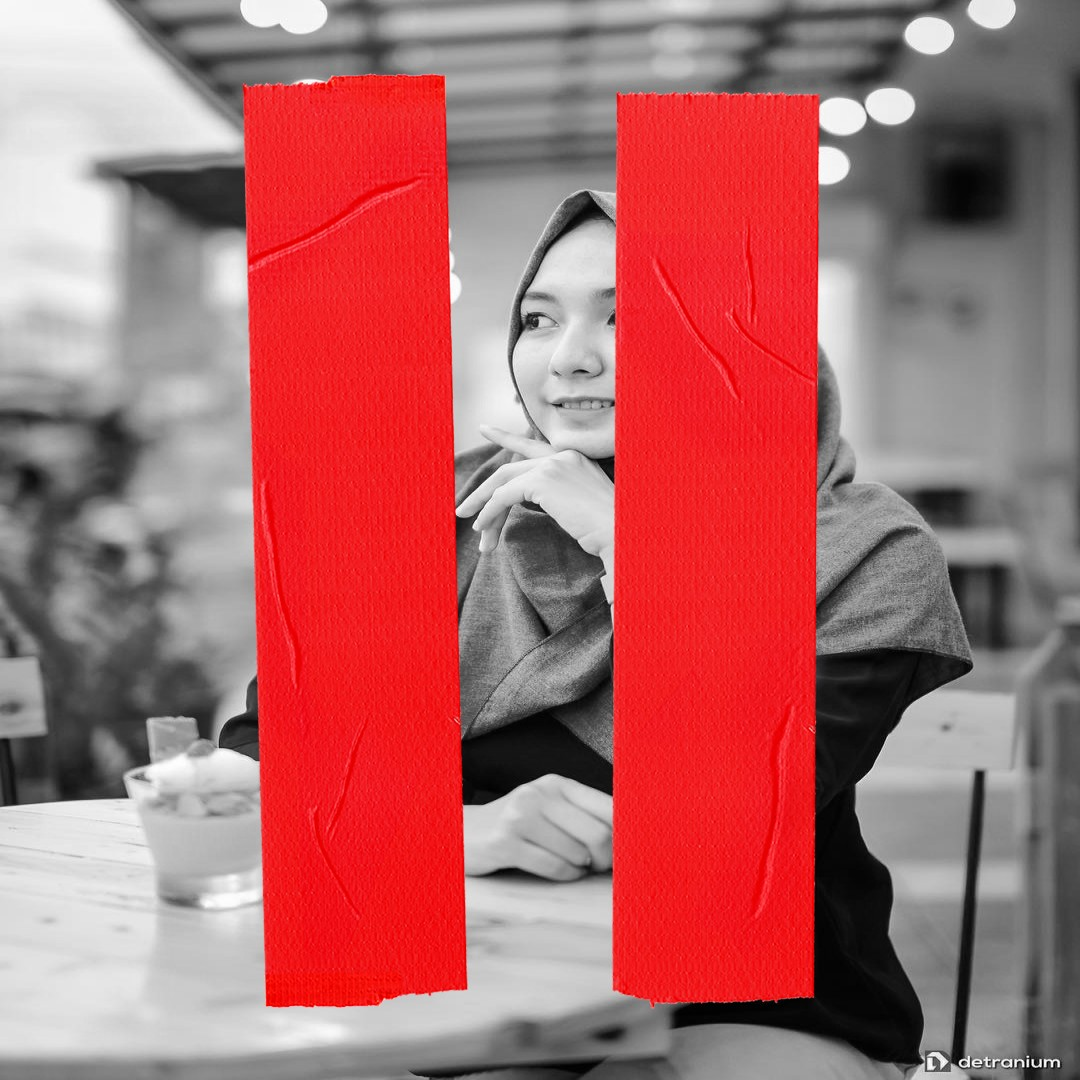
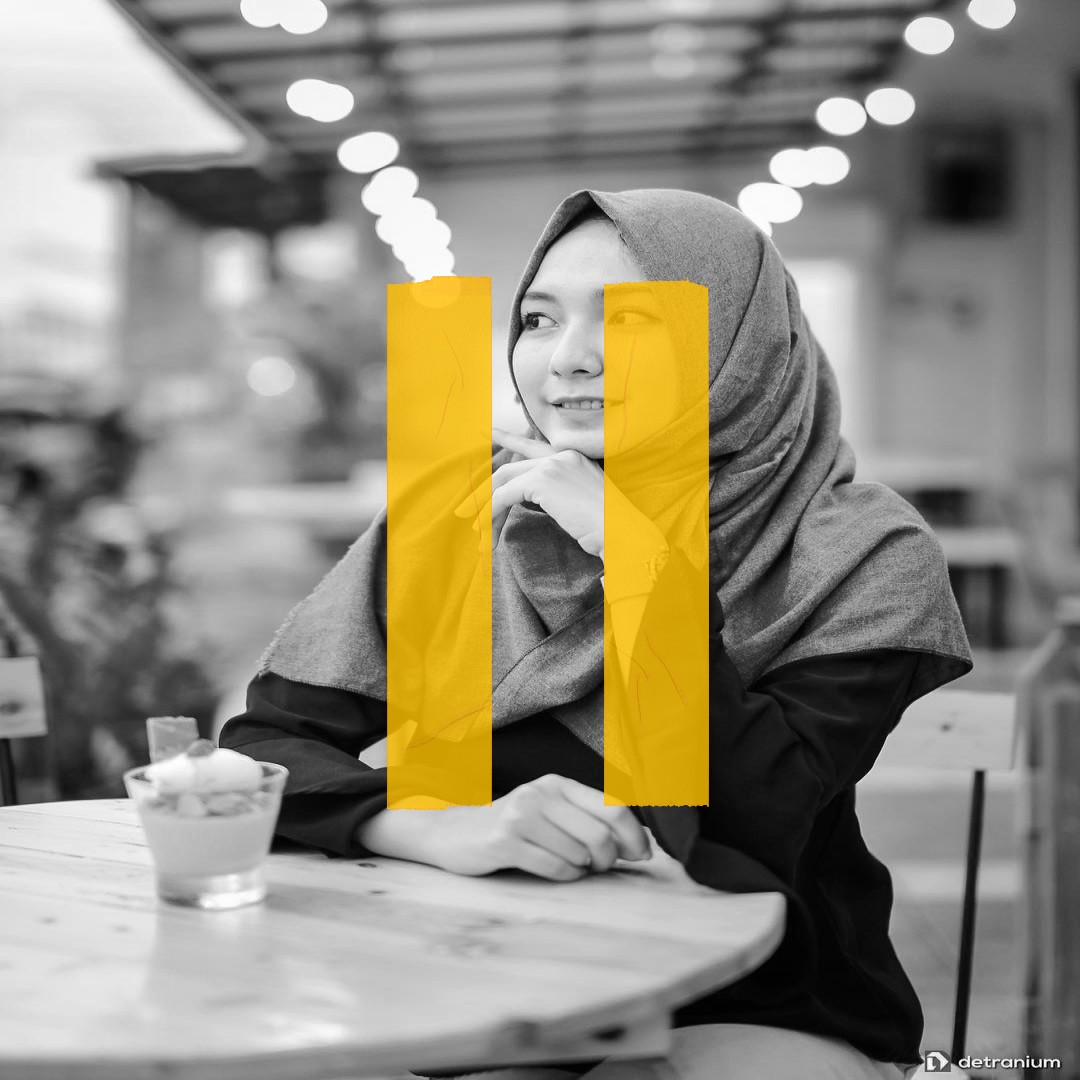
update data nif dan image profil nif

diff --git a/public/frontend/css/custom.css b/public/frontend/css/custom.css
@@ -36,3 +36,13 @@
 	margin-top: 6px;
     margin-left: 56px;
 }
+.no-border{
+	border: 0;
+	color: black;
+    padding: 0px;
+    height: inherit;
+    box-shadow: none;
+}
+.no-border[readonly]{
+	background: none;
+}

diff --git a/resources/views/frontend-page/nif.blade.php b/resources/views/frontend-page/nif.blade.php
@@ -9,7 +9,11 @@
         <div class="row">
             <div class="col-md-3">
                 <div class="thumbnail thumbnail-photo thumbnail-nif">
-                    <img src="{!!Storage::disk('s3')->url(Auth::guard('account')->user()->images)!!}" alt="">
+                    <img id='nif-image' class='pointer' src="{!!Storage::disk('s3')->url(Auth::guard('account')->user()->images)!!}" alt="">
+                    <form action="{{Route('member.change.image')}}" enctype="multipart/form-data" id='form-image' method="post">
+                        @csrf
+                        <input type="file" name="image" id="image_nif" style="display: none;" />
+                    </form>
                 </div>
                 <div class="pull-left">
                     <a href="{{ route('images.download') }}" class="btn"><i class="fa fa-download"></i></a>
@@ -21,38 +25,50 @@
                 </div> -->
             </div>
             <div class="col-md-5 mrgn">
+                <form action="{{ route('member.change.nif') }}" method="post" id="change-password">
+                    @csrf
                 <div class="form-group row detail grs">
-                    <label for="#" class="col-sm-4 col-form-label">@lang('nif.columns.name')</label>
-                    <div class="col-sm-8">
-                        <p class="isian">: {{ Auth::guard('account')->user()->name }}</p>
+                    <label for="#" class="col-sm-5 col-form-label">@lang('nif.columns.name') <trobe class="pull-right">:</trobe></label>
+                    <div class="col-sm-7">
+                         <input type="text" name="name" class="form-control isian no-border"  value="{{ Auth::guard('account')->user()->name }}">
                     </div>
-                    <label for="#" class="col-sm-4 col-form-label">@lang('nif.columns.nif')</label>
-                    <div class="col-sm-8">
-                        <p class="isian">: {!! sprintf("%06d", Auth::guard('account')->user()->id)!!}</p>
+                    <label for="#" class="col-sm-5 col-form-label">@lang('nif.columns.nif') <trobe class="pull-right">:</trobe></label>
+                    <div class="col-sm-7">
+                        <p class="isian">{!! sprintf("%06d", Auth::guard('account')->user()->id)!!}</p>
                     </div>
-                    <label for="#" class="col-sm-4 col-form-label">@lang('nif.columns.email')</label>
-                    <div class="col-sm-8">
-                        <p class="isian">: {{ Auth::guard('account')->user()->email }}</p>
+                    <label for="#" class="col-sm-5 col-form-label">@lang('nif.columns.email') <trobe class="pull-right">:</trobe></label>
+                    <div class="col-sm-7">
+                         <p class="isian">{{ Auth::guard('account')->user()->email }}</p>
                     </div>
-                    <label for="#" class="col-sm-4 col-form-label">@lang('nif.columns.phone')</label>
-                    <div class="col-sm-8">
-                        <p class="isian">: {{ Auth::guard('account')->user()->phone }}</p>
+                    <label for="#" class="col-sm-5 col-form-label">@lang('nif.columns.phone') <trobe class="pull-right">:</trobe></label>
+                    <div class="col-sm-7">
+                        <input type="text" name="phone" class="form-control isian no-border" value="{{ Auth::guard('account')->user()->phone }}">
                     </div>
-                    <label for="#" class="col-sm-4 col-form-label">@lang('nif.columns.address')</label>
-                    <div class="col-sm-8">
-                        <p class="isian">: {{ Auth::guard('account')->user()->address }}</p>
+                    <label for="#" class="col-sm-5 col-form-label">@lang('nif.columns.address') <trobe class="pull-right">:</trobe></label>
+                    <div class="col-sm-7">
+                        <textarea name="address" class="form-control isian no-border">{{ Auth::guard('account')->user()->address }}</textarea>
                     </div>
-                    <label for="#" class="col-sm-4 col-form-label">@lang('nif.columns.gender')</label>
-                    <div class="col-sm-8">
-                        <p class="isian">: {{ Auth::guard('account')->user()->gender }}</p>
+                    <label for="#" class="col-sm-5 col-form-label">@lang('nif.columns.gender') <trobe class="pull-right">:</trobe></label>
+                    <div class="col-sm-7">
+                        <select name="gender" class="form-control isian no-border">
+                            <option value="L" @if(Auth::guard('account')->user()->gender == "L") selected @endif >L</option>
+                            <option value="P" @if(Auth::guard('account')->user()->gender == "P") selected @endif >P</option>
+                            <option value="X" @if(Auth::guard('account')->user()->gender == "X") selected @endif >X</option>
+                        </select>
                     </div>
-                    <label for="#" class="col-sm-4 col-form-label">@lang('nif.columns.born_date')</label>
-                    <div class="col-sm-8">
-                        <p class="isian">: {{ Auth::guard('account')->user()->dob }}</p>
+                    <label for="#" class="col-sm-5 col-form-label">@lang('nif.columns.born_date') <trobe class="pull-right">:</trobe></label>
+                    <div class="col-sm-7">
+                        <input type="text" name="dob" class="form-control isian no-border" value="{{ Auth::guard('account')->user()->dob }}" readonly>
                     </div>
                 </div>
-
+                <div class="form-group col-sm-3">
+                        <button class="btn btn-danger btn-block btn-submit" type="submit">
+                            @lang('nif.edit.button')
+                        </button>
+                </div>
+                </form>
             </div>
+
             <div class="col-md-4 mrgn">
                 <section id="reset-pass">
                     @if(Session::has('success'))
@@ -105,7 +121,24 @@
         <p class="navbar-right">@lang('footer.left.detail')</p>
     </div>
 </div>
+<link rel="stylesheet" href="//code.jquery.com/ui/1.12.1/themes/base/jquery-ui.css">
+<script src="https://code.jquery.com/ui/1.12.1/jquery-ui.js"></script>
 <script>
+    $(function () {
+        $('input[name="dob"]').datepicker({
+          changeMonth: true,
+          changeYear: true,
+          dateFormat: 'dd/mm/yy'
+        });
+    });
+    $("#nif-image").click(function() {
+        $("input[id='image_nif']").click();
+    });
+    $("input[id='image_nif']").change(function() {
+      $('#form-image').submit()
+    });
+
+
     $("#change-password").validate({
         rules: {
             password: {

diff --git a/app/Http/Controllers/NifController.php b/app/Http/Controllers/NifController.php
@@ -3,15 +3,19 @@
 namespace App\Http\Controllers;
 
 use Auth;
+use Image;
 use Illuminate\Http\Request;
 use Illuminate\Support\Facades\Hash;
+use Illuminate\Support\Facades\Validator;
+use App\Account;
 
 class NifController extends Controller
 {
 
-    public function __construct()
+    public function __construct(Account $account)
     {
         $this->middleware('auth:account');
+        $this->account = $account;
     }
 
     public function index()
@@ -47,5 +51,38 @@ class NifController extends Controller
             $request->session()->flash('error', 'Password does not match');
         }
         return redirect()->route('member.nif');
+    }
+
+    public function changeImage(Request $request){
+        Validator::make($request->all(), [
+            'image' => 'required|mimes:jpeg,png',
+        ])->validate();
+        $file = $request->file('image');
+        $unique = uniqid();
+        $mask = array("red","yellow");
+        $destinationPath = 'uploads';
+        $filePath = $destinationPath.'/'.$unique.'-'.$file->getClientOriginalName();
+        $masking= array_rand($mask,1);
+        $fileimage = Image::make($file)->greyscale()->resize(1080, 1080)->insert('images/image-masking-'.$mask[$masking].'.png','center')->save($destinationPath.'/'.$file->getClientOriginalName());
+        $s3 = \Storage::disk('s3');
+        $s3->put($filePath, $fileimage,'public');
+        $request->request->add(['images' =>$filePath ]);
+
+        $this->account->where('id',Auth::user()->id)->update( $request->only('images') );
+
+        return redirect()->back();
+    }
+
+    public function changeData(Request $request){
+        Validator::make($request->all(), [
+            'name' => ['required', 'string', 'max:255'],
+            'phone'=>['required','numeric','phone_number'],
+            'address'=>['required'],
+            'gender'=>['required'],
+            'dob'=>['required','date_format:"d/m/Y"'],
+        ])->validate();
+
+        $this->account->where('id',Auth::user()->id)->update($request->except('_token'));
+        return redirect()->back();
     }
 }

diff --git a/app/Http/Controllers/Auth/MemberRegisterController.php b/app/Http/Controllers/Auth/MemberRegisterController.php
@@ -14,15 +14,16 @@ use Hash;
 class MemberRegisterController extends Controller
 {
     
-    public function register(Request $request)  {   
+    public function register(Request $request)  { 
+        $unique = uniqid();  
     	$file = $request->file('image');
    		$mask = array("red","yellow");
    		$destinationPath = 'uploads';
-   		$filePath = $destinationPath.'/'.$file->getClientOriginalName();
+   		$filePath = $destinationPath.'/'.$unique.'-'.$file->getClientOriginalName();
         $masking= array_rand($mask,1);
     	$fileimage = Image::make($file)->greyscale()->resize(1080, 1080)->insert('images/image-masking-'.$mask[$masking].'.png','center')->save($destinationPath.'/'.$file->getClientOriginalName());
-	   $s3 = \Storage::disk('s3');
-       $s3->put($filePath, $fileimage,'public');
+        $s3 = \Storage::disk('s3');
+        $s3->put($filePath, $fileimage,'public');
     	$request->request->add(['images' =>$filePath ]);
     	$request->request->add(['dob' => $request->date."/".$request->month.'/'.$request->year]);
         $validation = $this->validator($request->all());

diff --git a/routes/web.php b/routes/web.php
@@ -32,6 +32,8 @@ Route::prefix('member')->group(function(){
 	Route::get('/logout', 'Auth\MemberLoginController@logout')->name('member.logout');
 	Route::get('/password/reset/{token}','Auth\ResetPasswordController@showResetForm')->name('member.password.reset');
 	Route::get('/nif','NifController@index')->name('member.nif');
+  Route::post('/change-image','NifController@changeImage')->name('member.change.image');
+  Route::post('/edit-nif','NifController@changeData')->name('member.change.nif');
 	Route::post('/ganti-password','NifController@gantiPassword')->name('member.ganti-password');
 });
 

diff --git a/database/factories/AccountFactory.php b/database/factories/AccountFactory.php
@@ -21,6 +21,7 @@ $factory->define(App\Account::class, function (Faker $faker) {
         'address' =>$faker->address,
         'gender'=>'L',
         'dob'=>'01/01/1970',
+        'images'=>'uploads/default-fstvlst.jpg',
         'password' => '$2y$10$TKh8H1.PfQx37YgCzwiKb.KjNyWgaHb9cbcoQgdIVFlYg7B77UdFm', // secret
         'remember_token' => str_random(10),
     ];

diff --git a/resources/lang/ar/nif.php b/resources/lang/ar/nif.php
@@ -15,4 +15,7 @@ return [
     'new_password' => 'كتا سندي برو',
     're_password' => 'كنفرمسي كتا سندي برو',
     'button' => 'اؤبه كتا سندي برو',
+    'edit'=>[
+            'button' =>'اباه',
+        ],
 ];

diff --git a/database/seeds/users.php b/database/seeds/users.php
@@ -18,5 +18,6 @@ class users extends Seeder
                     'email' => 'admin@admin.com',
                     'password' => '$2y$10$N5s1Mc28.XIdLres3ibT.ek8QEb0wTvJUVlJnApBB0MSWVmNCa0Wq'
                 ],
+        ]);
     }
 }

diff --git a/resources/lang/id/nif.php b/resources/lang/id/nif.php
@@ -15,4 +15,7 @@ return [
     'new_password' => 'Kata Sandi Baru',
     're_password' => 'Konfirmasi Kata Sandi Baru',
     'button' => 'UBAH KATA SANDI!',
+    'edit'=>[
+            'button' =>'UBAH',
+        ],
 ];

diff --git a/resources/lang/en/nif.php b/resources/lang/en/nif.php
@@ -15,4 +15,7 @@ return [
     'new_password' => 'New Password',
     're_password' => 'New Password Confirmation',
     'button' => 'CHANGE PASSWORD!',
+    'edit'=>[
+            'button' =>'EDIT',
+        ],
 ];
